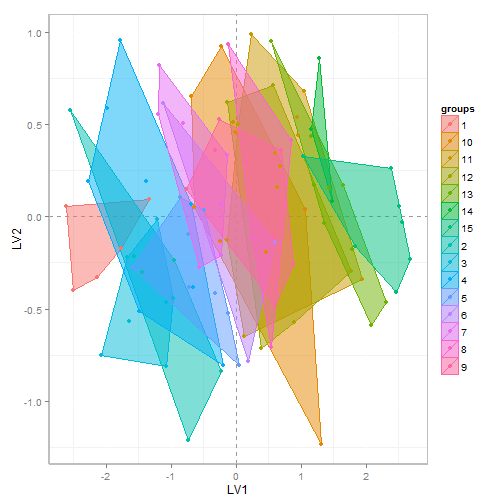
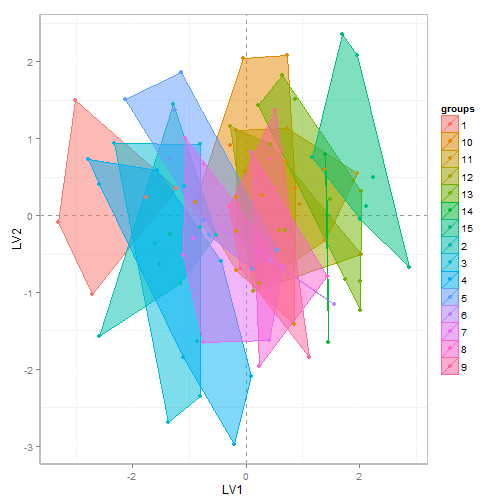
mark down for OPLS example

diff --git a/Demos/OPLS/OPLS example.html b/Demos/OPLS/OPLS example.html
@@ -359,7 +359,7 @@ plot.PLS.results(obj = final, plot = &quot;scores&quot;, groups = group)
 
 <h4>An alternative to modeling a multiple Ys is to define a single Y based on the multiple columns. This will try to organize all group scores in one dimension (LV1).</h4>
 
-<pre><code class="r">pls.y&lt;-as.numeric(as.factor(join.columns(complex.y))) # create numeric representation
+<pre><code class="r">pls.y&lt;-matrix(as.numeric(as.factor(join.columns(complex.y))),,1) # create numeric representation
 #fit 1:limit LV/OLV models to overview optimal LV and OLV
 optimal.model&lt;-optimize.OPLS(max.LV=comp, # max LV
                         tolerance =0.01, #tolerance for accepting higher error models but which are simpler
@@ -368,42 +368,26 @@ optimal.model&lt;-optimize.OPLS(max.LV=comp, # max LV
                             progress=FALSE) 
 </code></pre>
 
-<pre><code>## Warning: first element used of &#39;each&#39; argument
-</code></pre>
-
-<pre><code>## Error: argument of length 0
-</code></pre>
-
 <h4>View suggestions.</h4>
 
 <pre><code class="r">optimal.model
 </code></pre>
 
 <pre><code>## $best
-##     RMSEP.1 RMSEP.2 LV OLV pls.y delta.tmp.min.
-## 54   0.4541  0.4528  5   2     1      5.140e-03
-## 78   0.4531  0.4521  5   3     1      4.435e-03
-## 102  0.4487  0.4476  5   4     1      0.000e+00
-## 126  0.4488  0.4478  5   5     1      1.326e-04
-## 30   0.4541  0.4528  2   2     2      3.125e-03
-## 50   0.4506  0.4497  4   2     2      6.253e-05
-## 70   0.4520  0.4511  4   3     2      1.458e-03
-## 90   0.4506  0.4496  4   4     2      0.000e+00
-## 14   0.4703  0.4693  1   1     3      2.804e-03
-## 75   0.4692  0.4676  4   3     3      1.105e-03
-## 95   0.4680  0.4665  4   4     3      0.000e+00
-## 66   0.4778  0.4763  5   2     3      9.788e-03
-## 114  0.4726  0.4711  5   4     3      4.601e-03
-## 138  0.4700  0.4686  5   5     3      2.048e-03
-## 16   0.4911  0.4910  1   1     4      0.000e+00
-## 24   0.4989  0.4981  2   1     4      7.131e-03
-## 36   0.4995  0.4987  2   2     4      7.718e-03
+##   RMSEP.1 RMSEP.2 LV OLV pls.y delta.tmp.min.
+## 4   4.103    4.09  1   1     1              0
 ## 
 ## $LV
-## [1] 5
+## [1] 1
 ## 
 ## $OLV
-## [1] 4
+## [1] 1
+</code></pre>
+
+<pre><code class="r"># currently single LV models will cause an error so limit LV minimium to 2
+if (optimal.model$LV == 1) {
+    optimal.model$LV &lt;- 2
+}
 </code></pre>
 
 <h4>Build optimized model based on optimal.model suggestions.</h4>
@@ -420,7 +404,7 @@ final &lt;- get.OSC.model(obj = mods1, OSC.comp = optimal.model$OLV)  # get all 
 plot.PLS.results(obj = final, plot = &quot;scores&quot;, groups = group)
 </code></pre>
 
[2 lines of base64/hex data omitted]
 
 </body>
 

diff --git a/Demos/OPLS/OPLS example.md b/Demos/OPLS/OPLS example.md
@@ -222,21 +222,13 @@ plot.PLS.results(obj = final, plot = "scores", groups = group)
 #### An alternative to modeling a multiple Ys is to define a single Y based on the multiple columns. This will try to organize all group scores in one dimension (LV1).
 
 ```r
-pls.y<-as.numeric(as.factor(join.columns(complex.y))) # create numeric representation
+pls.y<-matrix(as.numeric(as.factor(join.columns(complex.y))),,1) # create numeric representation
 #fit 1:limit LV/OLV models to overview optimal LV and OLV
 optimal.model<-optimize.OPLS(max.LV=comp, # max LV
   						tolerance =0.01, #tolerance for accepting higher error models but which are simpler
 							pls.y=pls.y,pls.data=scaled.data, # y and data
 							validation = "LOO",method="oscorespls",cv.scale=F,# see pls for theses options
 							progress=FALSE) 
-```
-
-```
-## Warning: first element used of 'each' argument
-```
-
-```
-## Error: argument of length 0
 ```
 
 
@@ -248,30 +240,21 @@ optimal.model
 
 ```
 ## $best
-##     RMSEP.1 RMSEP.2 LV OLV pls.y delta.tmp.min.
-## 54   0.4541  0.4528  5   2     1      5.140e-03
-## 78   0.4531  0.4521  5   3     1      4.435e-03
-## 102  0.4487  0.4476  5   4     1      0.000e+00
-## 126  0.4488  0.4478  5   5     1      1.326e-04
-## 30   0.4541  0.4528  2   2     2      3.125e-03
-## 50   0.4506  0.4497  4   2     2      6.253e-05
-## 70   0.4520  0.4511  4   3     2      1.458e-03
-## 90   0.4506  0.4496  4   4     2      0.000e+00
-## 14   0.4703  0.4693  1   1     3      2.804e-03
-## 75   0.4692  0.4676  4   3     3      1.105e-03
-## 95   0.4680  0.4665  4   4     3      0.000e+00
-## 66   0.4778  0.4763  5   2     3      9.788e-03
-## 114  0.4726  0.4711  5   4     3      4.601e-03
-## 138  0.4700  0.4686  5   5     3      2.048e-03
-## 16   0.4911  0.4910  1   1     4      0.000e+00
-## 24   0.4989  0.4981  2   1     4      7.131e-03
-## 36   0.4995  0.4987  2   2     4      7.718e-03
+##   RMSEP.1 RMSEP.2 LV OLV pls.y delta.tmp.min.
+## 4   4.103    4.09  1   1     1              0
 ## 
 ## $LV
-## [1] 5
+## [1] 1
 ## 
 ## $OLV
-## [1] 4
+## [1] 1
+```
+
+```r
+# currently single LV models will cause an error so limit LV minimium to 2
+if (optimal.model$LV == 1) {
+    optimal.model$LV <- 2
+}
 ```
 
 #### Build optimized model based on optimal.model suggestions.

diff --git a/README.md b/README.md
@@ -10,6 +10,7 @@ Bioinformatics related demos and tutorials using the R programming language.
 
 [Partial Least Squares (PLS)](https://github.com/dgrapov/TeachingDemos/wiki/Partial-Least-Squares) (fast and simple)
 
+[Orthogonal Partial Least Squares (OPLS)](https://github.com/dgrapov/TeachingDemos/blob/master/Demos/OPLS/OPLS%20example.md)
 
 ## Database query and translation
 [Translating Between Chemical Identifiers](https://github.com/dgrapov/TeachingDemos/wiki/Translating-Between-Chemical-Identifiers)  (intermediate)
